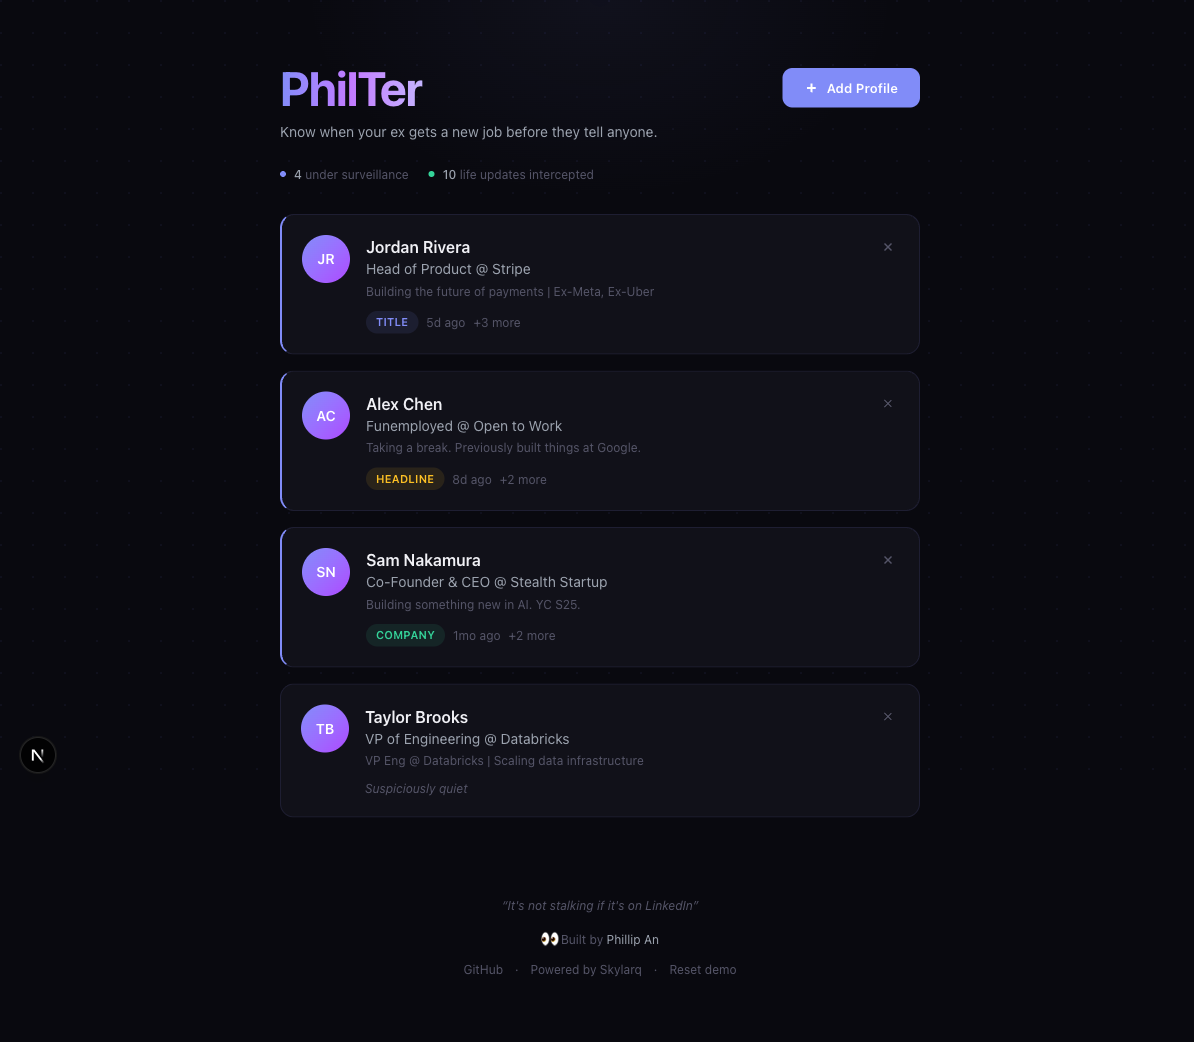
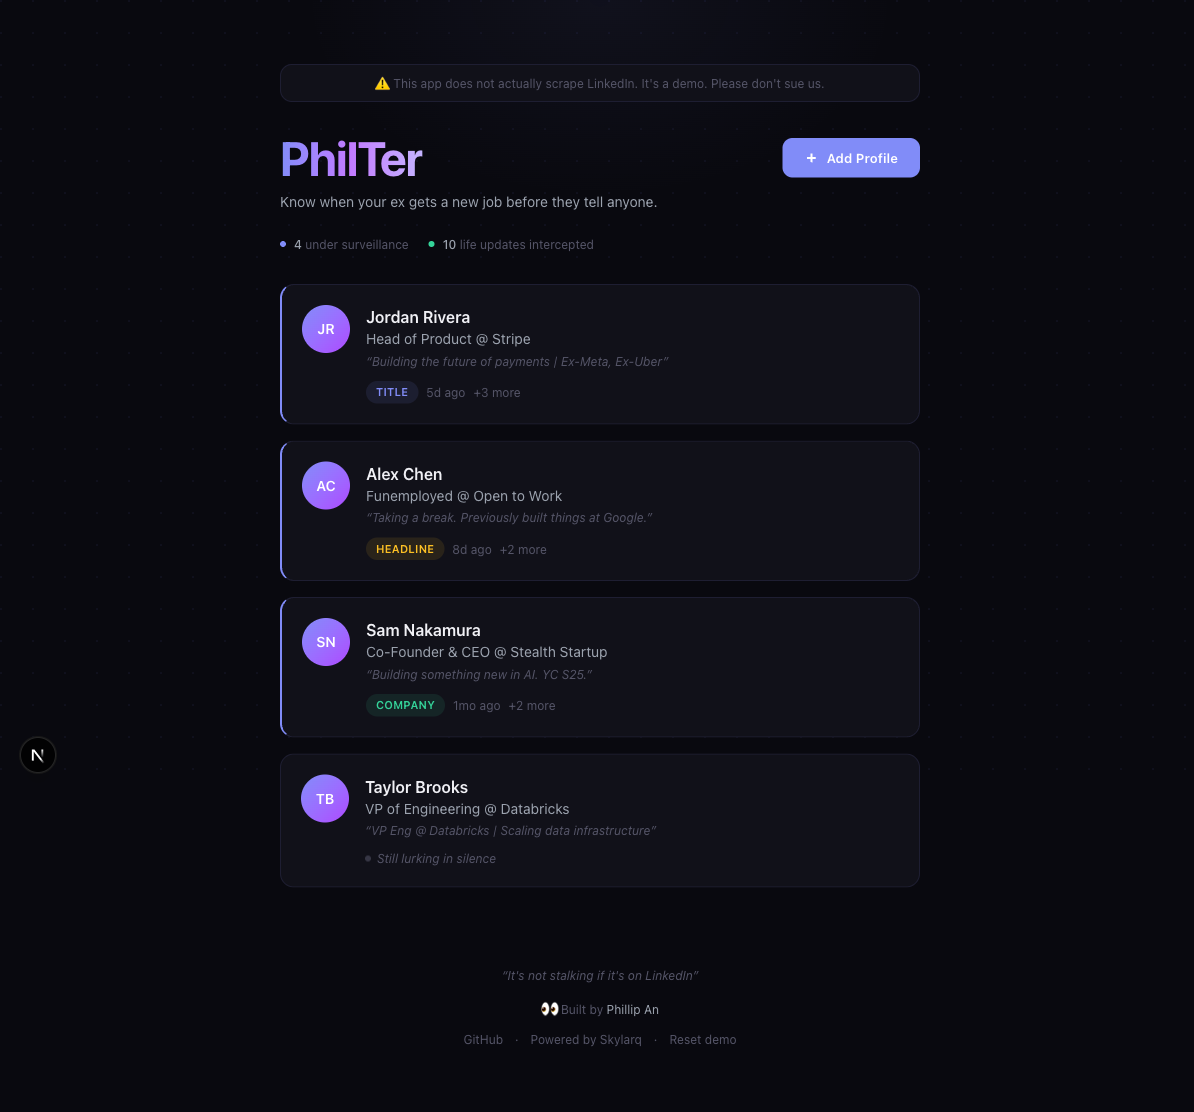
Enhance design polish and humor throughout the app
Add disclaimer banner, stalker score system, intel summary grid,
rotating quiet messages, hover effects, and updated screenshots.

diff --git a/components/ProfileDetail.tsx b/components/ProfileDetail.tsx
@@ -40,7 +40,6 @@ function fieldBadgeClass(field: string): string {
   }
 }
 
-// Group changes by timestamp (changes that happened at the same time)
 function groupChanges(changes: Change[]): { timestamp: string; changes: Change[] }[] {
   const groups: Map<string, Change[]> = new Map();
   for (const change of changes) {
@@ -54,8 +53,16 @@ function groupChanges(changes: Change[]): { timestamp: string; changes: Change[]
   }));
 }
 
+function getStalkerScore(changes: number): { label: string; emoji: string; color: string } {
+  if (changes === 0) return { label: "Nothing yet", emoji: "\u{1F634}", color: "var(--text-tertiary)" };
+  if (changes <= 2) return { label: "Mild interest", emoji: "\u{1F440}", color: "var(--text-secondary)" };
+  if (changes <= 5) return { label: "Invested", emoji: "\u{1F50D}", color: "var(--warning)" };
+  return { label: "Obsessed", emoji: "\u{1F6A8}", color: "var(--danger)" };
+}
+
 export default function ProfileDetail({ profile, onBack }: ProfileDetailProps) {
   const changeGroups = groupChanges(profile.changes);
+  const score = getStalkerScore(profile.changes.length);
 
   return (
     <div className="animate-in">
@@ -67,13 +74,13 @@ export default function ProfileDetail({ profile, onBack }: ProfileDetailProps) {
         <svg width="16" height="16" viewBox="0 0 16 16" fill="none" stroke="currentColor" strokeWidth="1.5">
           <path d="M10 3L5 8l5 5" />
         </svg>
-        Back to all profiles
+        Back to surveillance
       </button>
 
       {/* Profile header */}
-      <div className="card p-6 mb-8">
+      <div className="card p-6 mb-6">
         <div className="flex items-start gap-4">
-          <div className="shrink-0 w-16 h-16 rounded-full bg-gradient-to-br from-[var(--accent)] to-purple-500 flex items-center justify-center text-white font-semibold text-lg">
+          <div className="shrink-0 w-16 h-16 rounded-full bg-gradient-to-br from-[var(--accent)] to-purple-500 flex items-center justify-center text-white font-semibold text-lg ring-2 ring-[var(--accent)]/20">
             {profile.avatarInitials}
           </div>
           <div className="flex-1">
@@ -81,7 +88,9 @@ export default function ProfileDetail({ profile, onBack }: ProfileDetailProps) {
             <p className="text-[var(--text-secondary)] mt-1">
               {profile.currentTitle} @ {profile.currentCompany}
             </p>
-            <p className="text-sm text-[var(--text-tertiary)] mt-1">{profile.headline}</p>
+            <p className="text-sm text-[var(--text-tertiary)] mt-1 italic">
+              &ldquo;{profile.headline}&rdquo;
+            </p>
             <div className="flex items-center gap-4 mt-3 text-xs text-[var(--text-tertiary)]">
               <a
                 href={profile.linkedinUrl}
@@ -89,24 +98,39 @@ export default function ProfileDetail({ profile, onBack }: ProfileDetailProps) {
                 rel="noopener noreferrer"
                 className="text-[var(--accent)] hover:underline"
               >
-                View LinkedIn
+                Stalk on LinkedIn
               </a>
-              <span>Tracking since {formatDate(profile.addedAt)}</span>
-              <span>{profile.changes.length} changes detected</span>
+              <span>Watching since {formatDate(profile.addedAt)}</span>
             </div>
           </div>
         </div>
       </div>
 
+      {/* Intel summary */}
+      <div className="grid grid-cols-3 gap-3 mb-8">
+        <div className="card p-3 text-center">
+          <p className="text-lg font-bold text-[var(--text-primary)]">{profile.changes.length}</p>
+          <p className="text-[10px] text-[var(--text-tertiary)] uppercase tracking-wider">Changes caught</p>
+        </div>
+        <div className="card p-3 text-center">
+          <p className="text-lg font-bold text-[var(--text-primary)]">{changeGroups.length}</p>
+          <p className="text-[10px] text-[var(--text-tertiary)] uppercase tracking-wider">Life events</p>
+        </div>
+        <div className="card p-3 text-center">
+          <p className="text-lg font-bold" style={{ color: score.color }}>{score.emoji} {score.label}</p>
+          <p className="text-[10px] text-[var(--text-tertiary)] uppercase tracking-wider">Intel level</p>
+        </div>
+      </div>
+
       {/* Change timeline */}
       <h3 className="text-sm font-medium text-[var(--text-secondary)] mb-4 uppercase tracking-wider">
-        Change History
+        Evidence Log
       </h3>
 
       {changeGroups.length === 0 ? (
         <div className="card p-8 text-center">
-          <p className="text-4xl mb-3">&#128064;</p>
-          <p className="text-[var(--text-secondary)]">Suspiciously quiet</p>
+          <p className="text-4xl mb-3">&#128564;</p>
+          <p className="text-[var(--text-secondary)] font-medium">Radio silence</p>
           <p className="text-sm text-[var(--text-tertiary)] mt-1">
             They haven&apos;t changed a thing. Either very stable or very good at hiding it.
           </p>
@@ -115,13 +139,9 @@ export default function ProfileDetail({ profile, onBack }: ProfileDetailProps) {
         <div className="space-y-0">
           {changeGroups.map((group, i) => (
             <div key={group.timestamp} className="relative pl-10 pb-8">
-              {/* Timeline connector */}
               {i < changeGroups.length - 1 && <div className="timeline-line" />}
-
-              {/* Dot */}
               <div className="absolute left-[14px] top-[6px] timeline-dot" />
 
-              {/* Date header */}
               <div className="flex items-center gap-2 mb-3">
                 <span className="text-sm font-medium text-[var(--text-primary)]">
                   {formatDate(group.timestamp)}
@@ -129,9 +149,13 @@ export default function ProfileDetail({ profile, onBack }: ProfileDetailProps) {
                 <span className="text-xs text-[var(--text-tertiary)]">
                   {formatTime(group.timestamp)}
                 </span>
+                {group.changes.length > 1 && (
+                  <span className="text-[10px] text-[var(--warning)] font-medium uppercase">
+                    Multi-update
+                  </span>
+                )}
               </div>
 
-              {/* Changes in this group */}
               <div className="space-y-2">
                 {group.changes.map((change) => (
                   <div key={change.id} className="card p-4">

diff --git a/components/ProfileCard.tsx b/components/ProfileCard.tsx
@@ -40,15 +40,30 @@ function fieldBadgeClass(field: string): string {
   }
 }
 
+const QUIET_MESSAGES = [
+  "Suspiciously quiet",
+  "No movement detected",
+  "Still lurking in silence",
+  "Eerily stable",
+];
+
+function getQuietMessage(id: string): string {
+  const idx = id.split("").reduce((a, c) => a + c.charCodeAt(0), 0);
+  return QUIET_MESSAGES[idx % QUIET_MESSAGES.length];
+}
+
 export default function ProfileCard({ profile, onSelect, onRemove }: ProfileCardProps) {
   const latestChange = profile.changes[0];
   const changeCount = profile.changes.length;
 
   return (
-    <div className={`card p-5 cursor-pointer animate-in${changeCount > 0 ? " card-has-changes" : ""}`} onClick={() => onSelect(profile)}>
+    <div
+      className={`card p-5 cursor-pointer animate-in group${changeCount > 0 ? " card-has-changes" : ""}`}
+      onClick={() => onSelect(profile)}
+    >
       <div className="flex items-start gap-4">
         {/* Avatar */}
-        <div className="shrink-0 w-12 h-12 rounded-full bg-gradient-to-br from-[var(--accent)] to-purple-500 flex items-center justify-center text-white font-semibold text-sm">
+        <div className="shrink-0 w-12 h-12 rounded-full bg-gradient-to-br from-[var(--accent)] to-purple-500 flex items-center justify-center text-white font-semibold text-sm ring-2 ring-transparent group-hover:ring-[var(--accent)]/30 transition-all">
           {profile.avatarInitials}
         </div>
 
@@ -63,8 +78,8 @@ export default function ProfileCard({ profile, onSelect, onRemove }: ProfileCard
                 e.stopPropagation();
                 onRemove(profile.id);
               }}
-              className="shrink-0 text-[var(--text-tertiary)] hover:text-[var(--danger)] transition-colors p-1"
-              title="Remove profile"
+              className="shrink-0 text-[var(--text-tertiary)] hover:text-[var(--danger)] transition-colors p-1 opacity-0 group-hover:opacity-100"
+              title="Let go (for now)"
             >
               <svg width="14" height="14" viewBox="0 0 16 16" fill="none" stroke="currentColor" strokeWidth="1.5">
                 <path d="M4 4l8 8M12 4l-8 8" />
@@ -76,8 +91,8 @@ export default function ProfileCard({ profile, onSelect, onRemove }: ProfileCard
             {profile.currentTitle} @ {profile.currentCompany}
           </p>
 
-          <p className="text-xs text-[var(--text-tertiary)] mt-1 truncate">
-            {profile.headline}
+          <p className="text-xs text-[var(--text-tertiary)] mt-1 truncate italic">
+            &ldquo;{profile.headline}&rdquo;
           </p>
 
           {/* Latest change or no changes */}
@@ -97,8 +112,9 @@ export default function ProfileCard({ profile, onSelect, onRemove }: ProfileCard
                 )}
               </>
             ) : (
-              <span className="text-xs text-[var(--text-tertiary)] italic">
-                Suspiciously quiet
+              <span className="text-xs text-[var(--text-tertiary)] italic flex items-center gap-1.5">
+                <span className="inline-block h-1.5 w-1.5 rounded-full bg-[var(--text-tertiary)] animate-pulse" />
+                {getQuietMessage(profile.id)}
               </span>
             )}
           </div>

diff --git a/app/page.tsx b/app/page.tsx
@@ -57,6 +57,12 @@ export default function Home() {
   // Dashboard view
   return (
     <main className="relative z-10 mx-auto max-w-2xl px-4 py-10 sm:py-16">
+      {/* Disclaimer banner */}
+      <div className="mb-8 rounded-xl border border-[var(--border)] bg-[var(--bg-secondary)] px-4 py-2.5 text-center text-xs text-[var(--text-tertiary)]">
+        <span className="mr-1.5">&#9888;&#65039;</span>
+        This app does not actually scrape LinkedIn. It&apos;s a demo. Please don&apos;t sue us.
+      </div>
+
       <Header
         profileCount={profiles.length}
         totalChanges={totalChanges}
